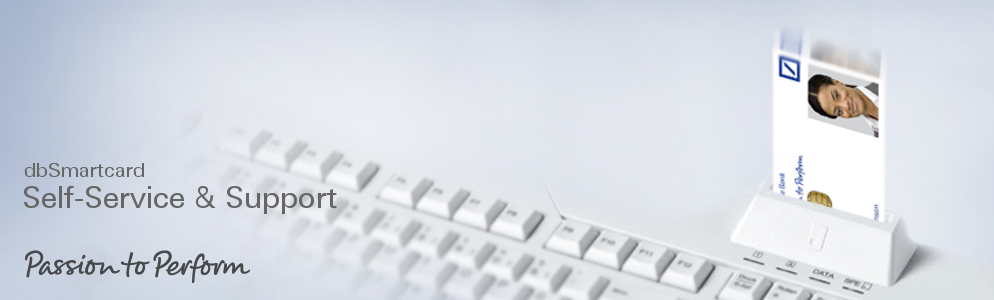
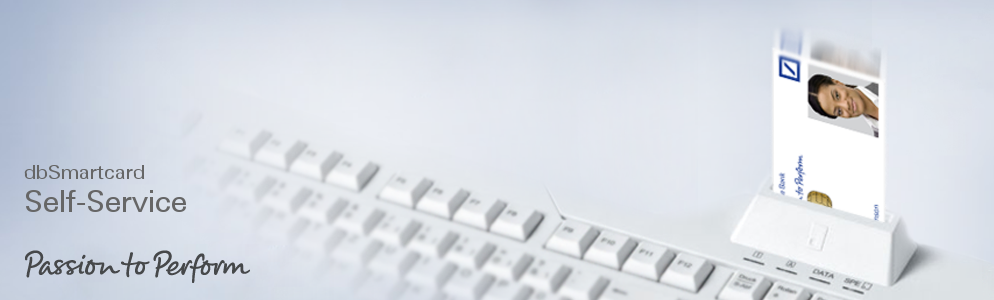
SC forntend update
fixed session issue
added personalization for multiple accounts (POLICY_INPUT)
added configure ourlook restriction for logedin users
modified header graphic
updated langauge files

Changed region(s): [[0.0, 0.54, 0.3431, 0.72]]

diff --git a/trunk/clients/perl/OpenXPKI-Client-HTML-SC/htdocs/js/ssc_view.js b/trunk/clients/perl/OpenXPKI-Client-HTML-SC/htdocs/js/ssc_view.js
@@ -1359,6 +1359,8 @@ var SSC_VIEW = new Class(
 				$('infoMore').empty();
 				div.inject($('infoMore'));
 				
+				//set back Action
+				this.setBackAction('T_back',function(){ this.handleStatus('showStatus');}.bind(this), true);
 				// and set next action
 				this.setNextAction('T_outlook',this.processConfOutlook, true);
 			},
@@ -1572,7 +1574,7 @@ var SSC_VIEW = new Class(
 				for (var i = 0; i < this.mainMenu.length; i++){
 					this.setButton(enable, $(this.mainMenu[i].id), this.mainMenu[i].fnc);
 				}
-			/*	
+				
 				if(! sscModel.allowOutlook){		
 				
 					this.setButton( 0 , $(this.mainMenu[4].id) , this.mainMenu[4].fnc );				
@@ -1582,22 +1584,25 @@ var SSC_VIEW = new Class(
 					var DomainUser = null;
 	
 					window.dbg.log(res );
+					window.dbg.log("set:" + set  );
 					if (set === "SUCCESS") {
 						//viewCb('success');
-						DomainUser = results.get("DomainUser");
+						DomainUser = res.get("DomainUser");
 						
 						//popup( "PIN changed successfully. <br> Your PIN has been changed please use the new PIN from now on to access your smartcard." , "info", function () { 
 						//});
 					}
-					
+					window.dbg.log("Domainuser: "+DomainUser + " No login ids:"+ sscModel.user.accounts.length );
 					
 					for( var i=0; i < sscModel.user.accounts.length ; i++){
+						window.dbg.log(sscModel.user.accounts[i] + sscModel.user.accounts.length );
+						
 						if( sscModel.user.accounts[i].toLowerCase() === DomainUser.toLowerCase() ){
 							this.setButton( 1 , $(this.mainMenu[4].id) , this.mainMenu[4].fnc );
 						}
 					}
 				}
-				*/
+				
 				
 			},
 
@@ -2094,8 +2099,9 @@ var SSC_VIEW = new Class(
 				var user = sscModel.getUserInfo();
 				
 				this.setPrompt();
-				this.dataPrivacyHtml = this.digitalIdHtml = this.otherCertsHtml = '';
+				this.dataPrivacyHtml = this.digitalSignatureHtml = this.digitalIdHtml = this.otherCertsHtml = '';
 				this.digitalIdStatus = this.otherCertsStatus = 'green';
+				this.digitalSignatureStatus = 'green';
 				this.dataPrivacyStatus = 'red';
 				
 				
@@ -2112,6 +2118,11 @@ var SSC_VIEW = new Class(
 						infoHtml += this._createInfoAccordionEntry(this._tr('T_DataPrivacy'),
 																	  'certStatus_'+this.dataPrivacyStatus,
 																	  this.dataPrivacyHtml);
+					}
+					if (this.digitalSignatureHtml){	
+						infoHtml += this._createInfoAccordionEntry(this._tr('T_digitalSignature'),
+																	  'certStatus_'+this.digitalSignatureStatus,
+																	  this.digitalSignatureHtml);
 					}
 					
 					if ( this.otherCertsHtml){
@@ -2197,15 +2208,12 @@ var SSC_VIEW = new Class(
 					} else if (certs[i].CERTIFICATE_TYPE ===  'escrow'){
 						certType = 1;
 					    title = certs[i].SUBJECT;
-					    subject = '';
-					
-					// todo: digital signature
-					}  else if (certs[i].CERTIFICATE_TYPE ===  'newfs'){
+					    subject = '';	
+					// digital signature
+					}  else if (certs[i].CERTIFICATE_TYPE ===  'signature'){
 						certType = 4;
 					    title = certs[i].SUBJECT;
-					    subject = '';
-					
-					    
+					    subject = '<tr><td>Subject</td><td>'+ certs[i].SUBJECT + '</td></tr>';		    
 					// other certs
 					} else {
 						certType = 3;
@@ -2252,8 +2260,11 @@ var SSC_VIEW = new Class(
 						   // this.otherCertsStatus = certs[i].VISUAL_STATUS;
 						}
 						break;
-					case 4:
-						// todo: handle new type
+					case 4:	
+						this.digitalSignatureHtml += html;
+						if (certs[i].VISUAL_STATUS === 'green' && this.digitalSignatureStatus === 'red'){
+						    this.dataPrivacyStatus = certs[i].VISUAL_STATUS;
+						}
 						break;
 					}
 					

diff --git a/trunk/clients/perl/OpenXPKI-Client-HTML-SC/htdocs/js/ssc_model.js b/trunk/clients/perl/OpenXPKI-Client-HTML-SC/htdocs/js/ssc_model.js
@@ -99,6 +99,7 @@ var SSC_MODEL = new Class(
 				this.stateFilter[8]= 'ISSUE_CERT';
 				this.stateFilter[9]= 'HAVE_CERT_TO_PUBLISH';
 				this.stateFilter[10]= 'HAVE_CERT_TO_UNPUBLISH';
+				//this.stateFilter[11]= 'POLICY_INPUT_REQUIRED';
 				this.ECDH = null;
 				this.allowOutlook = false;
 				this.outlook = {};
@@ -306,13 +307,18 @@ var SSC_MODEL = new Class(
 			},
 
 
-			personalizeAccount : function(account, cb) {
+			personalizeAccount : function(account, viewCb) {
 
 				window.dbg.log('sscModel.personalizeAccount');
-				// fs fixme
-
-				// callback
-				cb();
+				
+				
+				var reqData = "perso_wfID=" + this.perso_wfID
+				+ '&wf_action=select_useraccount&userAccount=' + account ;
+				var server_cb = this.server_personalization_loop;
+				var targetURL = "functions/personalization/server_personalization";
+	
+				this.ajax_request(targetURL,  reqData,  server_cb, viewCb);
+				
 
 			},
 			
@@ -377,15 +383,22 @@ var SSC_MODEL = new Class(
 
 						if (reason === 'PUKError') {
 							sscView.showPopUp('E_sc-error-resetpin-puk-error ',
-									'cross', '0113');
+									'cross', '0110');
 							viewCb('error');
 							this.ajax_log('processAuthCodes: '+r, 'error');
 							return;
-						} else if (reason === 'TokenInternalError') {
+						} else if (reason === 'PINPolicy') {
 							// Invalid PIN is an user Error no popup here
 							window.dbg.log("invalid pin" + reason);
 							this.ajax_log('processAuthCodes: '+r, 'error');
 							viewCb('invalidPin');
+							return;
+						}else{
+							
+							sscView.showPopUp('E_sc-error-resetpin-error ',
+									'cross', '0111');
+							viewCb('error');
+							this.ajax_log('processAuthCodes: '+r, 'error');
 							return;
 						}
 					
@@ -425,7 +438,7 @@ var SSC_MODEL = new Class(
 					var reason = results.get("Reason");
 					window.dbg.log("Error: " + reason);
 
-					if (reason == 'TokenInternalError') {
+					if (reason == 'PINPolicy') {
 						viewCb('newPinError');
 						return;
 					} else if (reason == 'PINLockedError') {
@@ -627,7 +640,7 @@ var SSC_MODEL = new Class(
 						this.user.entity = data.msg.PARAMS.SMARTCARD.assigned_to.dblegalentity;
 						
 						if(this.user.entity === 'undefined')this.user.entity = '';
-						this.user.accounts = data.msg.PARAMS.SMARTCARD.assigned_to.dbntloginid;
+						this.user.accounts = data.msg.PARAMS.SMARTCARD.assigned_to.loginids;
 						this.keysize = data.msg.PARAMS.SMARTCARD.keysize;
 						this.user.parsedCerts = data.msg.PARAMS.PARSED_CERTS;
 						window.dbg.log("parsed certs:"+ this.user.parsedCerts);
@@ -1215,6 +1228,13 @@ var SSC_MODEL = new Class(
 					viewCb('success');
 					return;
 				}
+				
+				if(data.wf_state === 'POLICY_INPUT_REQUIRED')
+				{				
+					sscView.showAccountDlg(this.user.accounts);				
+					return;
+				}
+	
 	
 					if(this.state === 'FAILIURE') {
 						window.dbg.log('Failiure personalization');

diff --git a/trunk/clients/perl/OpenXPKI-Client-HTML-SC/htdocs/css/sscStyle.css b/trunk/clients/perl/OpenXPKI-Client-HTML-SC/htdocs/css/sscStyle.css
@@ -676,6 +676,7 @@ background: #fff;
 	float: right;
 	height: 23px;
 	width: 20px;
+	margin-right:25px;
 	background:url("../img/haken.gif") repeat-x scroll center bottom transparent;
 }
 .certStatus_red{
@@ -683,6 +684,7 @@ background: #fff;
 	float: right;
 	height: 23px;
 	width: 23px;
+	margin-right:25px;
 	background:url("../img/cross.gif") repeat-x scroll center bottom transparent;
 }
 .certStatus_amber{
@@ -690,6 +692,7 @@ background: #fff;
 	float: right;
 	height: 23px;
 	width: 20px;
+	margin-right:25px;
 	background:url("../img/haken_yellow.gif") repeat-x scroll center bottom transparent;
 }
 .accTogglerOpen{
